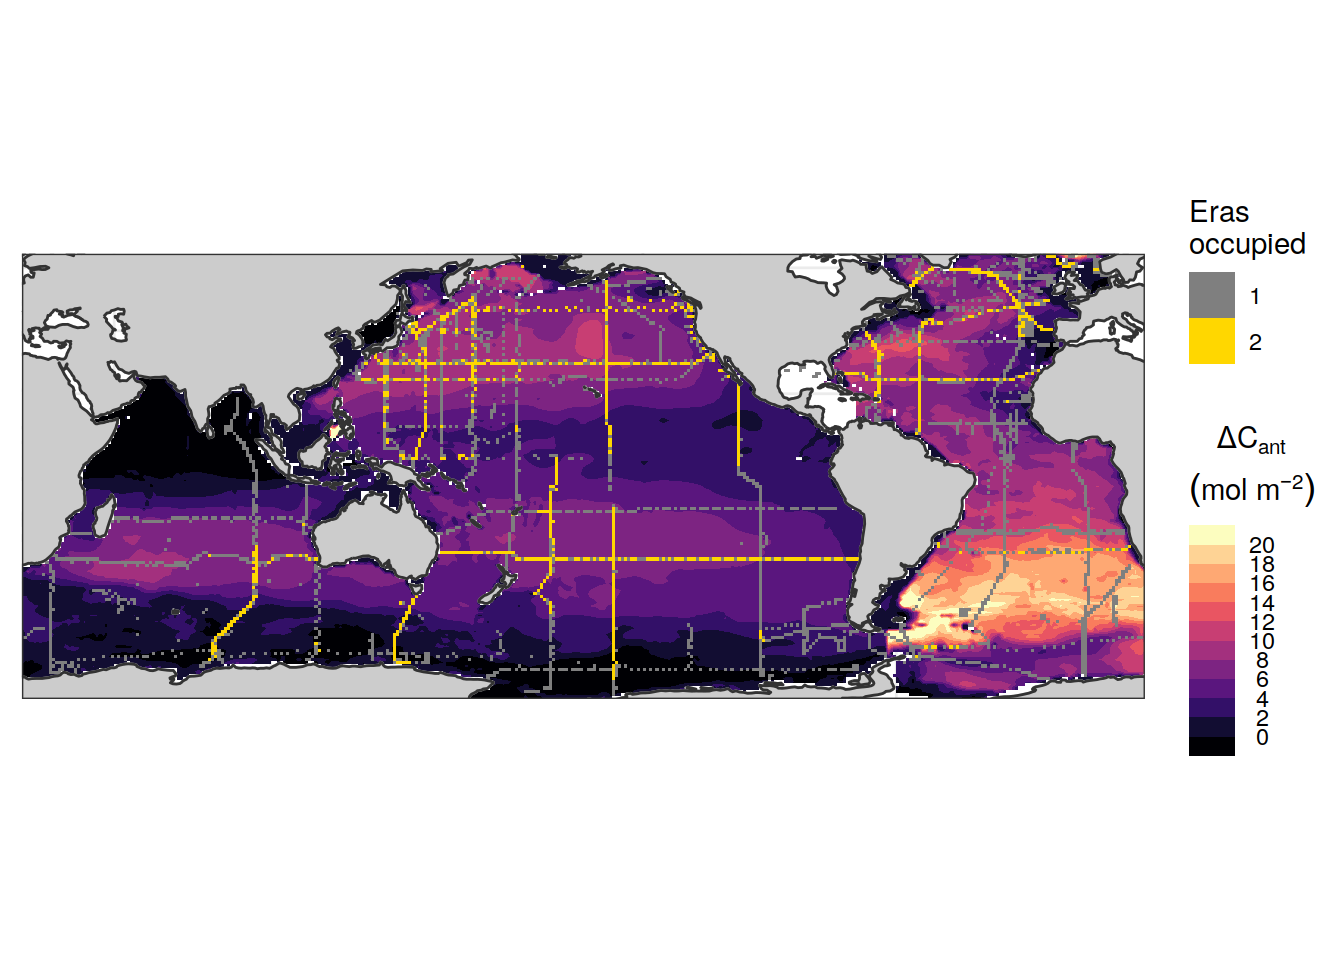
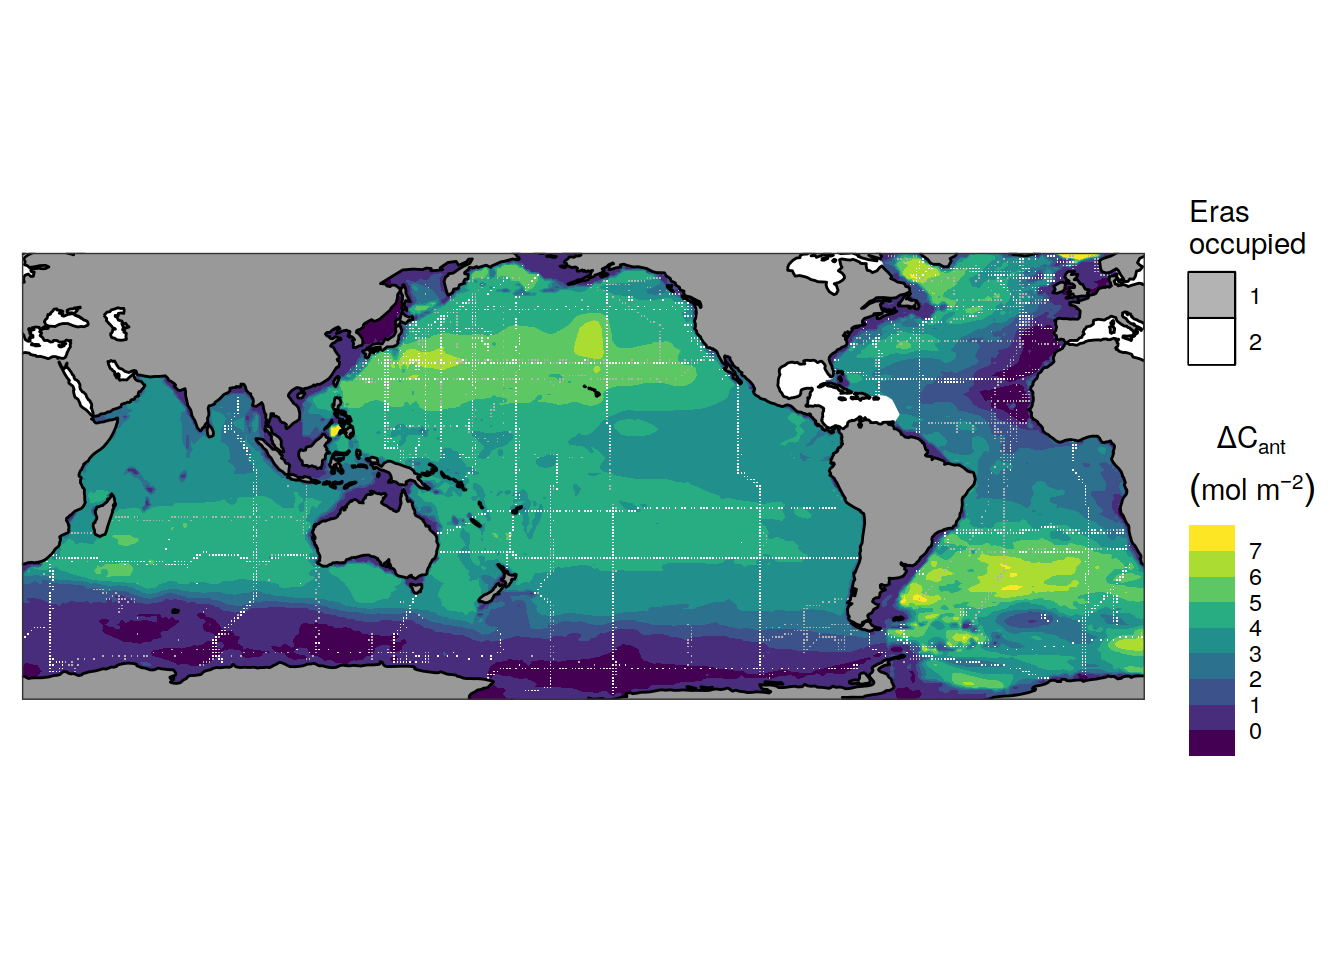
Build site.

diff --git a/docs/publication.html b/docs/publication.html
@@ -542,16 +542,16 @@ This reproducible <a href="http://rmarkdown.rstudio.com">R Markdown</a> analysis
 <div class="panel panel-default">
 <div class="panel-heading">
 <p class="panel-title">
-<a data-toggle="collapse" data-parent="#workflowr-checks" href="#strongRepositoryversionstrongahrefhttpsgithubcomjensdanielmuelleremlrobsanalysistree71e6c6fb2df70aabde7b749077a2d0ffd4156911targetblank71e6c6fa"> <span class="glyphicon glyphicon-ok text-success" aria-hidden="true"></span> <strong>Repository version:</strong> <a href="https://github.com/jens-daniel-mueller/emlr_obs_analysis/tree/71e6c6fb2df70aabde7b749077a2d0ffd4156911" target="_blank">71e6c6f</a> </a>
+<a data-toggle="collapse" data-parent="#workflowr-checks" href="#strongRepositoryversionstrongahrefhttpsgithubcomjensdanielmuelleremlrobsanalysistree974c6c1626603b342aa8a1c4eeb8a07869a45a08targetblank974c6c1a"> <span class="glyphicon glyphicon-ok text-success" aria-hidden="true"></span> <strong>Repository version:</strong> <a href="https://github.com/jens-daniel-mueller/emlr_obs_analysis/tree/974c6c1626603b342aa8a1c4eeb8a07869a45a08" target="_blank">974c6c1</a> </a>
 </p>
 </div>
[2 lines of base64/hex data omitted]
 <div class="panel-body">
 <p>
 Great! You are using Git for version control. Tracking code development and connecting the code version to the results is critical for reproducibility.
 </p>
 <p>
-The results in this page were generated with repository version <a href="https://github.com/jens-daniel-mueller/emlr_obs_analysis/tree/71e6c6fb2df70aabde7b749077a2d0ffd4156911" target="_blank">71e6c6f</a>. See the <em>Past versions</em> tab to see a history of the changes made to the R Markdown and HTML files.
+The results in this page were generated with repository version <a href="https://github.com/jens-daniel-mueller/emlr_obs_analysis/tree/974c6c1626603b342aa8a1c4eeb8a07869a45a08" target="_blank">974c6c1</a>. See the <em>Past versions</em> tab to see a history of the changes made to the R Markdown and HTML files.
 </p>
 <p>
 Note that you need to be careful to ensure that all relevant files for the analysis have been committed to Git prior to generating the results (you can use <code>wflow_publish</code> or <code>wflow_git_commit</code>). workflowr only checks the R Markdown file, but you know if there are other scripts or data files that it depends on. Below is the status of the Git repository when the results were generated:
@@ -560,14 +560,12 @@ Note that you need to be careful to ensure that all relevant files for the analy
 Ignored files:
     Ignored:    .Rhistory
     Ignored:    .Rproj.user/
+    Ignored:    data/
     Ignored:    output/Gruber_2019_comparison/
     Ignored:    output/publication/
 
 Untracked files:
     Untracked:  code/Workflowr_project_managment.R
-
-Unstaged changes:
-    Modified:   analysis/_site.yml
 
 </code></pre>
 <p>
@@ -606,6 +604,40 @@ Message
 </tr>
 </thead>
 <tbody>
+<tr>
+<td>
+Rmd
+</td>
+<td>
+<a href="https://github.com/jens-daniel-mueller/emlr_obs_analysis/blob/974c6c1626603b342aa8a1c4eeb8a07869a45a08/analysis/publication.Rmd" target="_blank">974c6c1</a>
+</td>
+<td>
+jens-daniel-mueller
+</td>
+<td>
+2021-04-15
+</td>
+<td>
+refined inventory map
+</td>
+</tr>
+<tr>
+<td>
+html
+</td>
+<td>
+<a href="https://rawcdn.githack.com/jens-daniel-mueller/emlr_obs_analysis/7be394f496bb69346de63d093cb1521a60eaeac7/docs/publication.html" target="_blank">7be394f</a>
+</td>
+<td>
+jens-daniel-mueller
+</td>
+<td>
+2021-04-15
+</td>
+<td>
+Build site.
+</td>
+</tr>
 <tr>
 <td>
 Rmd
@@ -701,6 +733,150 @@ GLODAP_preprocessed &lt;-
 </div>
 <div id="inventory-map" class="section level1" number="2">
 <h1 number="2"><span class="header-section-number">2</span> Inventory map</h1>
+<pre class="r"><code>coastlines &lt;- ne_coastline(scale = &quot;small&quot;, returnclass = &quot;sf&quot;)
+coastlines_re &lt;- ne_coastline(scale = &quot;small&quot;, returnclass = &quot;sf&quot;)
+worldmap &lt;- ne_countries(scale = &quot;small&quot;, returnclass = &quot;sf&quot;)
+worldmap_re &lt;- ne_countries(scale = &quot;small&quot;, returnclass = &quot;sf&quot;)
+
+crs &lt;- st_crs(coastlines)
+
+st_geometry(worldmap_re) &lt;- st_geometry(worldmap_re) + c(360, 0)
+st_crs(worldmap_re) &lt;- crs
+worldmap &lt;- rbind(worldmap, worldmap_re)
+rm(worldmap_re)
+
+st_geometry(coastlines_re) &lt;- st_geometry(coastlines_re) + c(360, 0)
+st_crs(coastlines_re) &lt;- crs
+coastlines &lt;- rbind(coastlines, coastlines_re)
+rm(coastlines_re)
+
+# coastlines_buffer &lt;- st_buffer(coastlines, dist = 1)
+# coastlines_re_buffer &lt;- st_buffer(coastlines_re, dist = 1)
+
+# coastline_raster &lt;- stars::st_rasterize(coastlines, options = &quot;ALL_TOUCHED=TRUE&quot;) %&gt;% 
+#   as.tibble()
+
+
+ggplot() +
+  geom_sf(data = worldmap, col = &quot;transparent&quot;) +
+  geom_sf(data = coastlines)</code></pre>
+<p><img src="figure/publication.Rmd/mask_and_shape_files-1.png" width="672" style="display: block; margin: auto;" /></p>
+<pre class="r"><code>for (i_file in list.files(&quot;data/iho_marginal_seas&quot;)) {
+  iho &lt;- st_read(paste0(&quot;data/iho_marginal_seas/&quot;, i_file, &quot;/iho.shp&quot;))
+  
+  if (exists(&quot;marine_polys&quot;)) {
+    marine_polys &lt;- rbind(marine_polys, iho)
+  } else {
+    marine_polys &lt;- iho
+  }
+  
+}</code></pre>
+<pre><code>Reading layer `iho&#39; from data source `/UP_home/jenmueller/Projects/emlr_cant/observations/emlr_obs_analysis/data/iho_marginal_seas/baltic_sea/iho.shp&#39; using driver `ESRI Shapefile&#39;
+Simple feature collection with 5 features and 10 fields
+Geometry type: POLYGON
+Dimension:     XY
+Bounding box:  xmin: 9.365596 ymin: 52.65352 xmax: 37.46891 ymax: 67.08059
+Geodetic CRS:  WGS 84
+Reading layer `iho&#39; from data source `/UP_home/jenmueller/Projects/emlr_cant/observations/emlr_obs_analysis/data/iho_marginal_seas/caribbean_sea/iho.shp&#39; using driver `ESRI Shapefile&#39;
+Simple feature collection with 1 feature and 10 fields
+Geometry type: POLYGON
+Dimension:     XY
+Bounding box:  xmin: -89.41293 ymin: 7.709799 xmax: -59.4216 ymax: 22.70652
+Geodetic CRS:  WGS 84
+Reading layer `iho&#39; from data source `/UP_home/jenmueller/Projects/emlr_cant/observations/emlr_obs_analysis/data/iho_marginal_seas/gulf_of_mexico/iho.shp&#39; using driver `ESRI Shapefile&#39;
+Simple feature collection with 1 feature and 10 fields
+Geometry type: POLYGON
+Dimension:     XY
+Bounding box:  xmin: -98.05392 ymin: 17.40681 xmax: -80.43304 ymax: 31.46484
+Geodetic CRS:  WGS 84
+Reading layer `iho&#39; from data source `/UP_home/jenmueller/Projects/emlr_cant/observations/emlr_obs_analysis/data/iho_marginal_seas/hudson_bay/iho.shp&#39; using driver `ESRI Shapefile&#39;
+Simple feature collection with 1 feature and 10 fields
+Geometry type: POLYGON
+Dimension:     XY
+Bounding box:  xmin: -95.34617 ymin: 51.14359 xmax: -75.88438 ymax: 66.02643
+Geodetic CRS:  WGS 84
+Reading layer `iho&#39; from data source `/UP_home/jenmueller/Projects/emlr_cant/observations/emlr_obs_analysis/data/iho_marginal_seas/mediterranean_sea/iho.shp&#39; using driver `ESRI Shapefile&#39;
+Simple feature collection with 10 features and 10 fields
+Geometry type: POLYGON
+Dimension:     XY
+Bounding box:  xmin: -6.032549 ymin: 30.06809 xmax: 36.21573 ymax: 45.80891
+Geodetic CRS:  WGS 84
+Reading layer `iho&#39; from data source `/UP_home/jenmueller/Projects/emlr_cant/observations/emlr_obs_analysis/data/iho_marginal_seas/persian_gulf/iho.shp&#39; using driver `ESRI Shapefile&#39;
+Simple feature collection with 1 feature and 10 fields
+Geometry type: POLYGON
+Dimension:     XY
+Bounding box:  xmin: 47.70244 ymin: 23.95901 xmax: 57.33998 ymax: 31.18586
+Geodetic CRS:  WGS 84
+Reading layer `iho&#39; from data source `/UP_home/jenmueller/Projects/emlr_cant/observations/emlr_obs_analysis/data/iho_marginal_seas/red_sea/iho.shp&#39; using driver `ESRI Shapefile&#39;
+Simple feature collection with 1 feature and 10 fields
+Geometry type: POLYGON
+Dimension:     XY
+Bounding box:  xmin: 33.63937 ymin: 12.45626 xmax: 43.50552 ymax: 28.13954
+Geodetic CRS:  WGS 84</code></pre>
+<pre class="r"><code>marine_polys_re &lt;- marine_polys
+st_geometry(marine_polys_re) &lt;- st_geometry(marine_polys) + c(360, 0)
+
+st_crs(marine_polys) &lt;- crs
+st_crs(marine_polys_re) &lt;- crs
+
+marine_polys &lt;- rbind(marine_polys, marine_polys_re)
+rm(marine_polys_re)
+
+ggplot() +
+  geom_sf(data = marine_polys, fill = &quot;white&quot;)</code></pre>
+<p><img src="figure/publication.Rmd/mask_and_shape_files-2.png" width="672" style="display: block; margin: auto;" /></p>
+<pre class="r"><code># marine_polys_simple &lt;- st_simplify(marine_polys, dTolerance = 0.1)
+# ggplot() +
+#   geom_sf(data = marine_polys_simple, fill = &quot;white&quot;)
+
+black_sea &lt;- st_read(&quot;data/black_sea/provinces.shp&quot;)</code></pre>
+<pre><code>Reading layer `provinces&#39; from data source `/UP_home/jenmueller/Projects/emlr_cant/observations/emlr_obs_analysis/data/black_sea/provinces.shp&#39; using driver `ESRI Shapefile&#39;
+Simple feature collection with 1 feature and 7 fields
+Geometry type: POLYGON
+Dimension:     XY
+Bounding box:  xmin: 27.44959 ymin: 40.91028 xmax: 41.77609 ymax: 47.28054
+Geodetic CRS:  WGS 84</code></pre>
+<pre class="r"><code>black_sea_re &lt;- black_sea
+st_geometry(black_sea_re) &lt;- st_geometry(black_sea) + c(360, 0)
+st_crs(black_sea) &lt;- crs
+st_crs(black_sea_re) &lt;- crs
+black_sea &lt;- rbind(black_sea, black_sea_re)
+rm(black_sea_re)
+
+hudson_bay &lt;- st_read(&quot;data/hudson_bay/lme.shp&quot;)</code></pre>
+<pre><code>Reading layer `lme&#39; from data source `/UP_home/jenmueller/Projects/emlr_cant/observations/emlr_obs_analysis/data/hudson_bay/lme.shp&#39; using driver `ESRI Shapefile&#39;
+Simple feature collection with 1 feature and 16 fields
+Geometry type: MULTIPOLYGON
+Dimension:     XY
+Bounding box:  xmin: -94.99611 ymin: 50.72388 xmax: -64.5891 ymax: 70.68027
+Geodetic CRS:  WGS 84</code></pre>
+<pre class="r"><code>hudson_bay_re &lt;- hudson_bay
+st_geometry(hudson_bay_re) &lt;- st_geometry(hudson_bay) + c(360, 0)
+st_crs(hudson_bay) &lt;- crs
+st_crs(hudson_bay_re) &lt;- crs
+hudson_bay &lt;- rbind(hudson_bay, hudson_bay_re)
+rm(hudson_bay_re)
+
+caspian_sea &lt;- st_read(&quot;data/caspian_sea/seavox_v17.shp&quot;)</code></pre>
+<pre><code>Reading layer `seavox_v17&#39; from data source `/UP_home/jenmueller/Projects/emlr_cant/observations/emlr_obs_analysis/data/caspian_sea/seavox_v17.shp&#39; using driver `ESRI Shapefile&#39;
+Simple feature collection with 1 feature and 20 fields
+Geometry type: POLYGON
+Dimension:     XY
+Bounding box:  xmin: 46.6797 ymin: 36.5801 xmax: 54.7659 ymax: 47.1153
+Geodetic CRS:  WGS 84</code></pre>
+<pre class="r"><code>caspian_sea_re &lt;- caspian_sea
+st_geometry(caspian_sea_re) &lt;- st_geometry(caspian_sea) + c(360, 0)
+st_crs(caspian_sea) &lt;- crs
+st_crs(caspian_sea_re) &lt;- crs
+caspian_sea &lt;- rbind(caspian_sea, caspian_sea_re)
+rm(caspian_sea_re)
+
+ggplot() +
+  geom_sf(data = marine_polys, fill = &quot;white&quot;) +
+  geom_sf(data = black_sea, fill = &quot;white&quot;) +
+  geom_sf(data = caspian_sea, fill = &quot;white&quot;) +
+  geom_sf(data = hudson_bay, fill = &quot;white&quot;)</code></pre>
+<p><img src="figure/publication.Rmd/mask_and_shape_files-3.png" width="672" style="display: block; margin: auto;" /></p>
 <pre class="r"><code>var_name &lt;- expression(atop(Delta * C[&quot;ant&quot;],
                             (mol ~ m ^ {
                               -2
@@ -712,7 +888,6 @@ GLODAP_grid &lt;- GLODAP_clean %&gt;%
 GLODAP_grid_both &lt;- GLODAP_grid %&gt;% 
   count(lon, lat) %&gt;% 
   mutate(n = as.factor(n))
-
 
 cant_inv %&gt;%
   filter(data_source == &quot;obs&quot;) %&gt;% 
@@ -756,58 +931,36 @@ jens-daniel-mueller
 </table>
 </div>
 </div>
-<pre class="r"><code>coastlines &lt;- ne_coastline(scale = &quot;small&quot;, returnclass = &quot;sf&quot;)
-coastlines_re &lt;- ne_coastline(scale = &quot;small&quot;, returnclass = &quot;sf&quot;)
-worldmap &lt;- ne_countries(scale = &quot;small&quot;, returnclass = &quot;sf&quot;)
-worldmap_re &lt;- ne_countries(scale = &quot;small&quot;, returnclass = &quot;sf&quot;)
-
-# 
-# ggplot() +
-#   geom_raster(data = cant_inv %&gt;% filter(data_source == &quot;obs&quot;),
-#               aes(lon, lat, fill = cant_pos_inv)) +
-#   geom_sf(data = coastlines, fill=&quot;grey&quot;, color=&quot;black&quot;) +
-#   scale_fill_scico(palette = &quot;tokyo&quot;)
-
-set_breaks &lt;- c(-Inf, seq(0, 20, 2), Inf)
-
-library(sf)
-st_geometry(worldmap_re) &lt;- st_geometry(worldmap_re) + c(360, 0)
-st_crs(worldmap_re) &lt;- st_crs(worldmap)
-st_geometry(coastlines_re) &lt;- st_geometry(coastlines_re) + c(360, 0)
-st_crs(coastlines_re) &lt;- st_crs(coastlines)
-
-# coastline_raster &lt;- stars::st_rasterize(coastlines, options = &quot;ALL_TOUCHED=TRUE&quot;) %&gt;% 
-#   as.tibble()
-
+<pre class="r"><code>set_breaks &lt;- c(-Inf, seq(0, 7, 1), Inf)
 
 ggplot() +
-  geom_raster(
-    data = cant_inv %&gt;% filter(data_source == &quot;obs&quot;),
-    aes(lon, lat, fill = cut(cant_inv, set_breaks))) +
-  scale_fill_viridis_d(option = &quot;A&quot;, name = var_name,
-                       guide = guide_colorsteps()) +
-  new_scale_fill() +
+  # geom_raster(
+  #   data = cant_inv %&gt;% filter(data_source == &quot;obs&quot;),
+  #   aes(lon, lat), fill = &quot;green&quot;) +
   geom_contour_fill(
     data = cant_inv %&gt;% filter(data_source == &quot;obs&quot;),
     aes(lon, lat, z = cant_inv, fill = stat(level)),
-    breaks = set_breaks
-    #na.fill = 0
+    breaks = set_breaks,
+    na.fill = TRUE
   ) +
-  scale_fill_viridis_d(option = &quot;A&quot;, name = var_name,
+  scale_fill_viridis_d(option = &quot;D&quot;, name = var_name,
                        guide = guide_colorsteps()) +
   new_scale_fill() +
-  geom_raster(data = GLODAP_grid_both,
-              aes(lon, lat, fill=n)) +
-  scale_fill_manual(values = c(&quot;grey50&quot;, &quot;gold&quot;),
+  geom_tile(data = GLODAP_grid_both,
+              aes(x = lon, y = lat, height = 0.5, width = 0.5, fill=n)) +
+  scale_fill_manual(values = c(&quot;grey70&quot;, &quot;white&quot;),
                     name = &quot;Eras\noccupied&quot;) +
+  geom_sf(data = marine_polys, fill = &quot;white&quot;, col=&quot;white&quot;) +
+  geom_sf(data = black_sea, fill = &quot;white&quot;, col=&quot;white&quot;) +
+  geom_sf(data = caspian_sea, fill = &quot;white&quot;, col=&quot;white&quot;) +
+  geom_sf(data = hudson_bay, fill = &quot;white&quot;, col=&quot;white&quot;) +
+  geom_sf(data = worldmap, fill=&quot;grey60&quot;, color=&quot;transparent&quot;) +
+  geom_sf(data = coastlines, col = &quot;black&quot;) +
+  coord_sf(ylim = c(-77.5,64.5), xlim = c(20.5,379.5), expand = 0) +
   theme(axis.text = element_blank(),
         axis.ticks = element_blank(),
-        axis.title = element_blank()) +
-  geom_sf(data = worldmap_re, fill=&quot;grey80&quot;, color=&quot;grey80&quot;) +
-  geom_sf(data = worldmap, fill=&quot;grey80&quot;, color=&quot;grey80&quot;) +
-  geom_sf(data = coastlines, color=&quot;grey20&quot;) +
-  geom_sf(data = coastlines_re, color=&quot;grey20&quot;) +
-  coord_sf(ylim = c(-77,64.5), xlim = c(20.5,379.5), expand = 0)</code></pre>
+        axis.title = element_blank(),
+        legend.key = element_rect(colour = &quot;black&quot;))</code></pre>
 <p><img src="figure/publication.Rmd/cant_inv_map-2.png" width="672" style="display: block; margin: auto;" /></p>
 <p>
 <button type="button" class="btn btn-default btn-xs btn-workflowr btn-workflowr-fig" data-toggle="collapse" data-target="#fig-cant_inv_map-2">
@@ -831,6 +984,17 @@ Date
 </tr>
 </thead>
 <tbody>
+<tr>
+<td>
+<a href="https://github.com/jens-daniel-mueller/emlr_obs_analysis/blob/7be394f496bb69346de63d093cb1521a60eaeac7/docs/figure/publication.Rmd/cant_inv_map-2.png" target="_blank">7be394f</a>
+</td>
+<td>
+jens-daniel-mueller
+</td>
+<td>
+2021-04-15
+</td>
+</tr>
 <tr>
 <td>
 <a href="https://github.com/jens-daniel-mueller/emlr_obs_analysis/blob/117a5c3c1c51b16535ce326f690a6c0b4710da38/docs/figure/publication.Rmd/cant_inv_map-2.png" target="_blank">117a5c3</a>
@@ -1052,7 +1216,7 @@ attached base packages:
 [1] stats     graphics  grDevices utils     datasets  methods   base     
 
 other attached packages:
- [1] sf_0.9-8            ggnewscale_0.4.5    rnaturalearth_0.1.0
+ [1] ggnewscale_0.4.5    rnaturalearth_0.1.0 sf_0.9-8           
  [4] metR_0.9.0          scico_1.2.0         patchwork_1.1.1    
  [7] collapse_1.5.0      forcats_0.5.0       stringr_1.4.0      
 [10] dplyr_1.0.5         purrr_0.3.4         readr_1.4.0        
